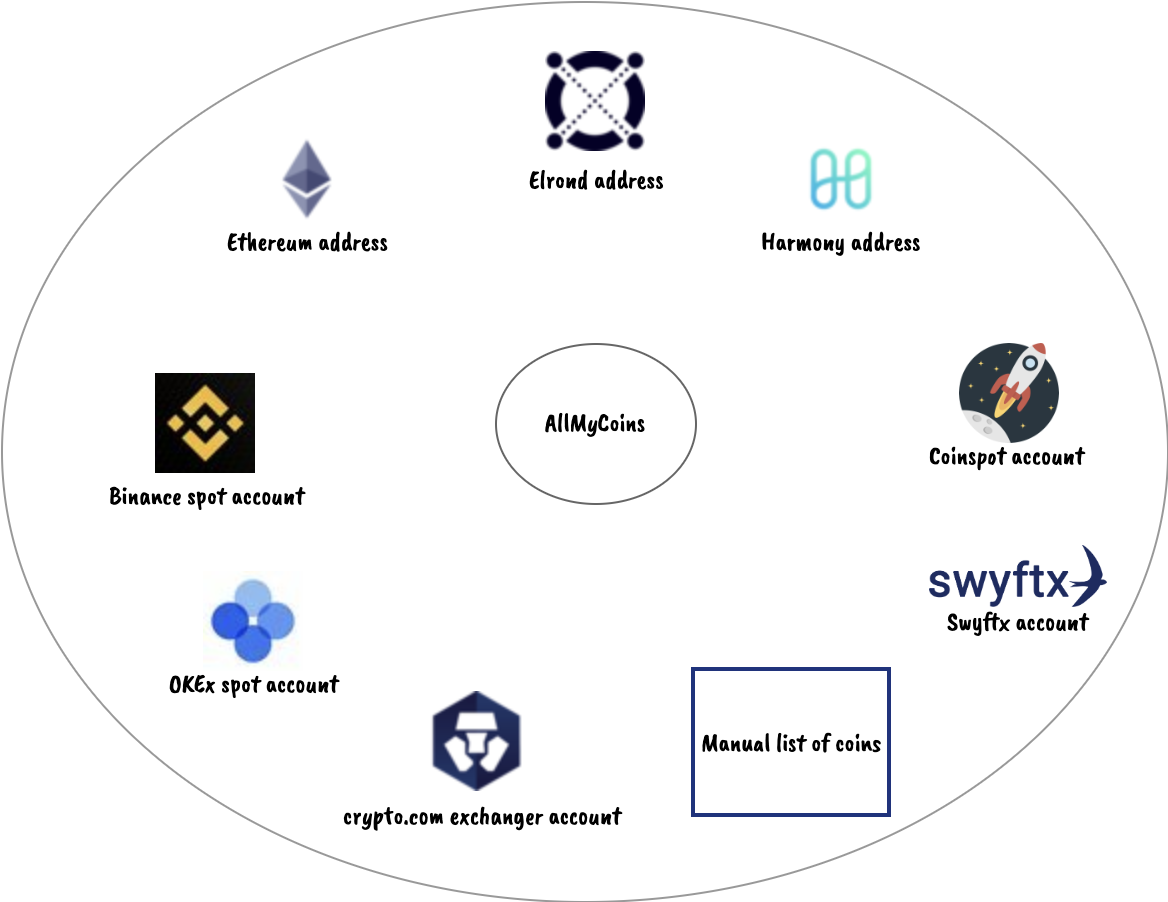
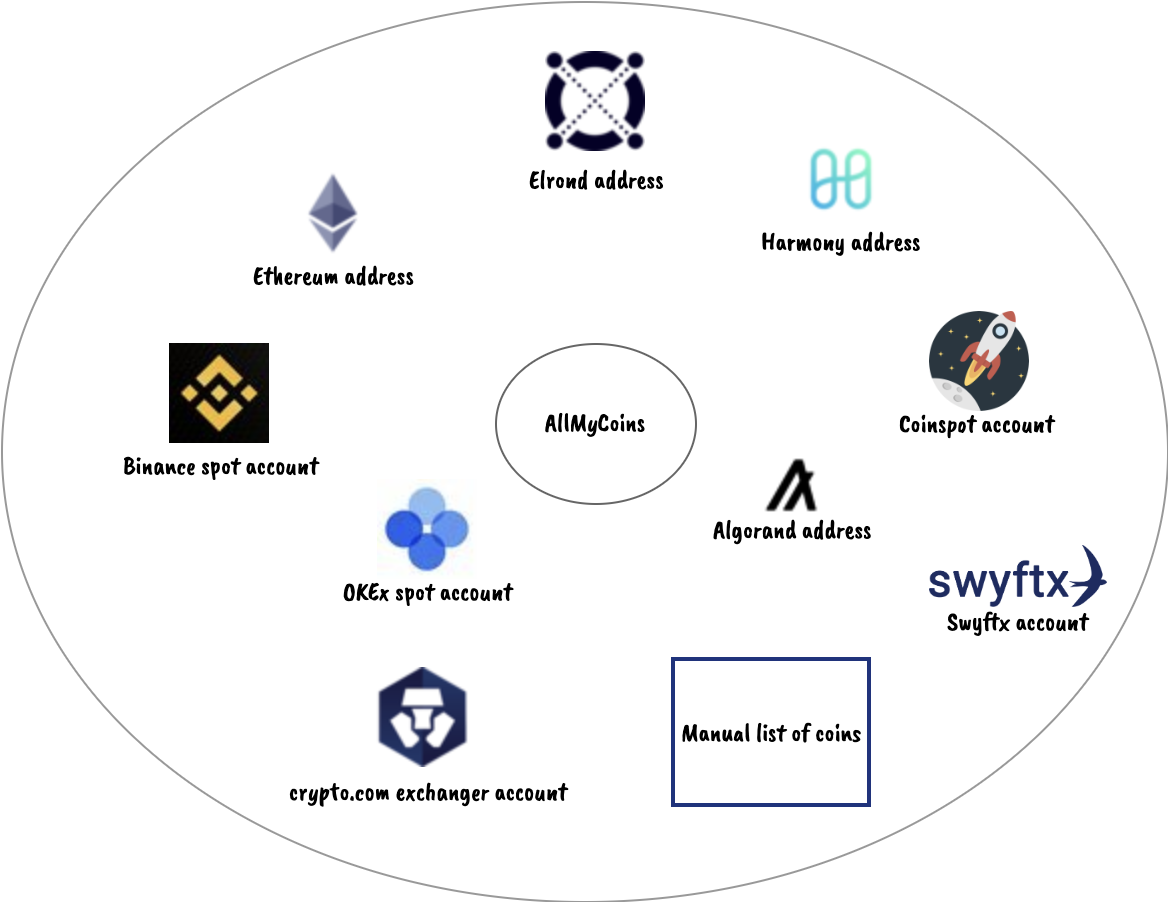
Add Algorand wallet support + doc + test

diff --git a/src/main/java/com/allmycoins/request/algorand/AlgorandAccountRequest.java b/src/main/java/com/allmycoins/request/algorand/AlgorandAccountRequest.java
@@ -1,0 +1,42 @@
+package com.allmycoins.request.algorand;
+
+import java.util.Collections;
+import java.util.Map;
+
+import com.allmycoins.json.algorand.AlgorandBalanceJson;
+import com.allmycoins.request.GetRequest;
+
+public final class AlgorandAccountRequest implements GetRequest<AlgorandBalanceJson> {
+
+	private final String algorandAddress;
+
+	public AlgorandAccountRequest(String pAlgorandAddress) {
+		algorandAddress = pAlgorandAddress;
+	}
+
+	@Override
+	public String baseUrl() {
+		return "https://api.algoexplorer.io";
+	}
+
+	@Override
+	public String endPoint() {
+		return "/v1/account/" + algorandAddress;
+	}
+
+	@Override
+	public Map<String, String> headers() {
+		return Collections.emptyMap();
+	}
+
+	@Override
+	public Class<AlgorandBalanceJson> jsonResponseClass() {
+		return AlgorandBalanceJson.class;
+	}
+
+	@Override
+	public String parameters() {
+		return "";
+	}
+
+}

diff --git a/src/main/java/com/allmycoins/balance/AlgorandProvider.java b/src/main/java/com/allmycoins/balance/AlgorandProvider.java
@@ -1,0 +1,26 @@
+package com.allmycoins.balance;
+
+import java.util.Collections;
+import java.util.List;
+
+import com.allmycoins.PrivateConfig;
+import com.allmycoins.json.BalanceJson;
+import com.allmycoins.json.algorand.AlgorandBalanceJson;
+import com.allmycoins.pc.BuildAlgorandBalance;
+import com.allmycoins.request.algorand.AlgorandAccountRequest;
+import com.allmycoins.utils.RequestUtils;
+
+public final class AlgorandProvider implements BalanceProvider {
+
+	@Override
+	public List<BalanceJson> balances() {
+		return PrivateConfig.get("ALGORAND_ADDRESS").map(this::algorandBalance).map(List::of)
+				.orElseGet(Collections::emptyList);
+	}
+
+	private BalanceJson algorandBalance(String algorandAddress) {
+		AlgorandBalanceJson algoBalanceJson = RequestUtils.sendRequest(new AlgorandAccountRequest(algorandAddress));
+		return BuildAlgorandBalance.build(algoBalanceJson);
+	}
+
+}

diff --git a/src/test/java/com/allmycoins/balance/AlgorandProviderTest.java b/src/test/java/com/allmycoins/balance/AlgorandProviderTest.java
@@ -1,0 +1,28 @@
+package com.allmycoins.balance;
+
+import static org.junit.jupiter.api.Assertions.assertEquals;
+import static org.junit.jupiter.api.Assertions.assertTrue;
+
+import java.util.List;
+
+import org.junit.jupiter.api.Test;
+
+import com.allmycoins.PrivateConfig;
+import com.allmycoins.json.BalanceJson;
+
+final class AlgorandProviderTest {
+
+	@Test
+	void testBalances() {
+		PrivateConfig.loadConfigurationFromClassLoader();
+
+		AlgorandProvider algorandProvider = new AlgorandProvider();
+		List<BalanceJson> balance = algorandProvider.balances();
+		assertEquals(1, balance.size());
+		BalanceJson algoBalanceJson = balance.get(0);
+
+		assertEquals("ALGO", algoBalanceJson.getAsset());
+		assertEquals("Algorand wallet", algoBalanceJson.getSrc());
+		assertTrue(algoBalanceJson.getQty() >= 0.0f);
+	}
+}

diff --git a/src/main/java/com/allmycoins/Main.java b/src/main/java/com/allmycoins/Main.java
@@ -16,6 +16,7 @@ import java.util.logging.LogManager;
 import java.util.logging.Logger;
 import java.util.stream.Collectors;
 
+import com.allmycoins.balance.AlgorandProvider;
 import com.allmycoins.balance.BalanceProvider;
 import com.allmycoins.balance.BinanceProvider;
 import com.allmycoins.balance.CoinspotProvider;
@@ -66,7 +67,7 @@ public class Main {
 
 		List<BalanceProvider> balanceProviders = List.of(new EthProvider(), new BinanceProvider(),
 				new CoinspotProvider(), new CryptocomProvider(), new ElrondProvider(), new OkexProvider(),
-				new SwyftxProvider(), new HarmonyProvider());
+				new SwyftxProvider(), new HarmonyProvider(), new AlgorandProvider());
 
 		List<Future<List<BalanceJson>>> balanceFutures = FutureUtils.runAllCallables(balanceProviders);
 

diff --git a/src/main/java/com/allmycoins/pc/BuildAlgorandBalance.java b/src/main/java/com/allmycoins/pc/BuildAlgorandBalance.java
@@ -1,0 +1,14 @@
+package com.allmycoins.pc;
+
+import com.allmycoins.json.BalanceJson;
+import com.allmycoins.json.algorand.AlgorandBalanceJson;
+import com.allmycoins.utils.BigDecimalUtils;
+
+public final class BuildAlgorandBalance {
+
+	public static BalanceJson build(AlgorandBalanceJson algorandBalanceJson) {
+		float qty = BigDecimalUtils.decimal(algorandBalanceJson.getBalance(), 6);
+		return new BalanceJson("ALGO", qty, "Algorand wallet");
+	}
+
+}

diff --git a/src/main/java/com/allmycoins/utils/BigDecimalUtils.java b/src/main/java/com/allmycoins/utils/BigDecimalUtils.java
@@ -4,8 +4,12 @@ import java.math.BigDecimal;
 
 public class BigDecimalUtils {
 
+	public static float decimal(BigDecimal bigDecimal, int n) {
+		return bigDecimal.divide(BigDecimal.valueOf(10).pow(n)).floatValue();
+	}
+
 	public static float decimal18(BigDecimal bigDecimal) {
-		return bigDecimal.divide(BigDecimal.valueOf(10).pow(18)).floatValue();
+		return decimal(bigDecimal, 18);
 	}
 
 }

diff --git a/src/main/java/com/allmycoins/PrivateConfig.java b/src/main/java/com/allmycoins/PrivateConfig.java
@@ -23,4 +23,12 @@ public final class PrivateConfig {
 		}
 	}
 
+	public static void loadConfigurationFromClassLoader() {
+		try {
+			PROP.load(PrivateConfig.class.getClassLoader().getResourceAsStream("privateConfig.properties"));
+		} catch (IOException ex) {
+			throw new AllMyCoinsException(ex.getMessage());
+		}
+	}
+
 }

diff --git a/src/main/java/com/allmycoins/json/algorand/AlgorandBalanceJson.java b/src/main/java/com/allmycoins/json/algorand/AlgorandBalanceJson.java
@@ -1,0 +1,15 @@
+package com.allmycoins.json.algorand;
+
+import java.math.BigDecimal;
+
+import com.fasterxml.jackson.annotation.JsonIgnoreProperties;
+
+import lombok.Getter;
+
+@Getter
+@JsonIgnoreProperties(ignoreUnknown = true)
+public class AlgorandBalanceJson {
+
+	private BigDecimal balance;
+
+}

diff --git a/README.md b/README.md
@@ -25,8 +25,10 @@ All my coins is a simple crypto portfolio manager.
 ### Blochain public addresses
 
 - Ethereum
+- Algorand address
 - Elrond address
 - Harmony address
+
 
 ## Display
 
